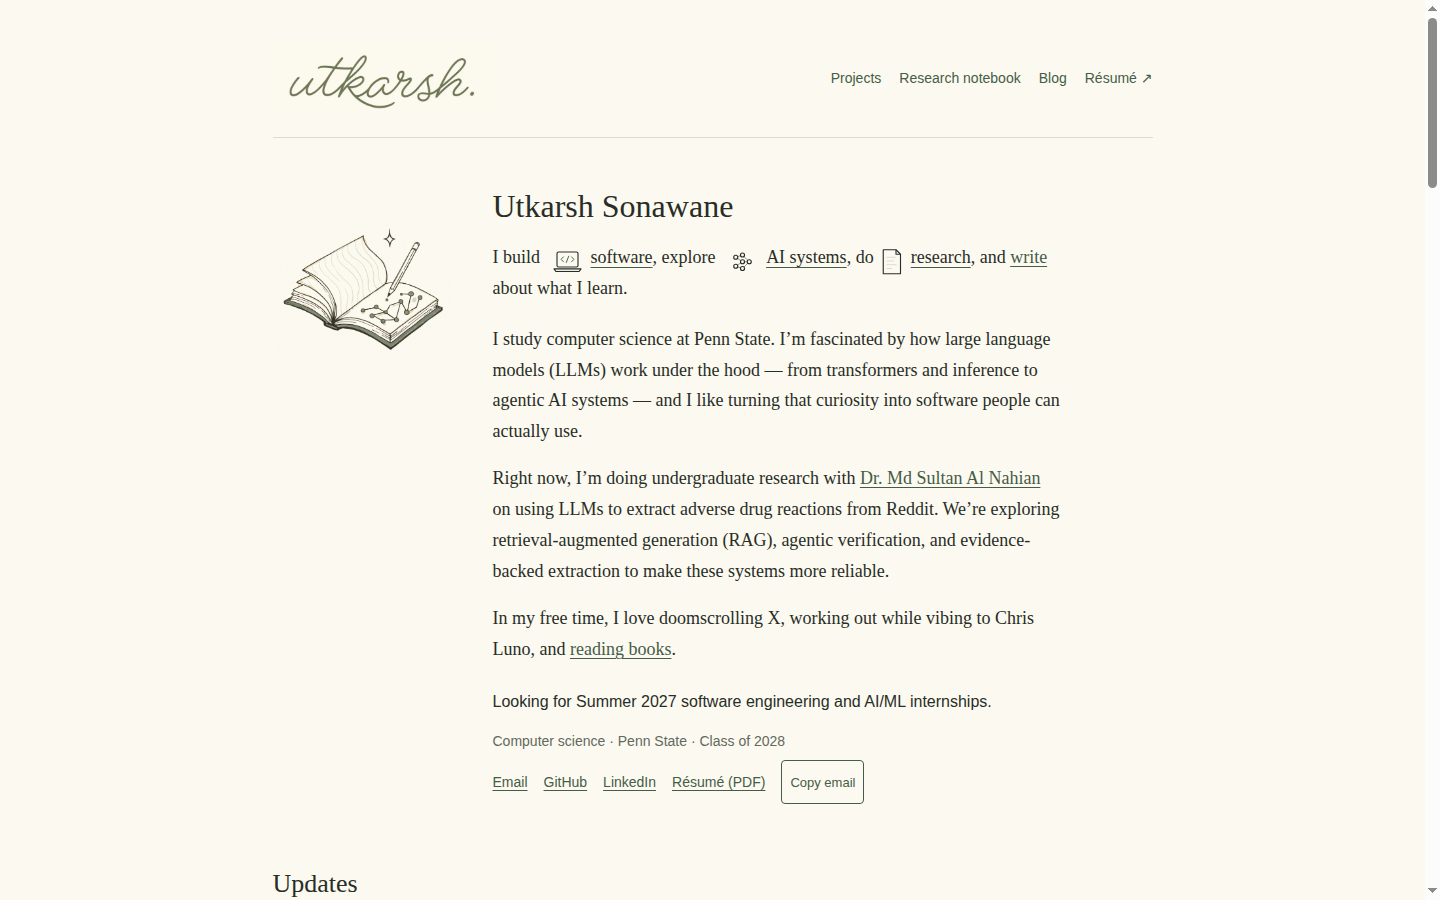
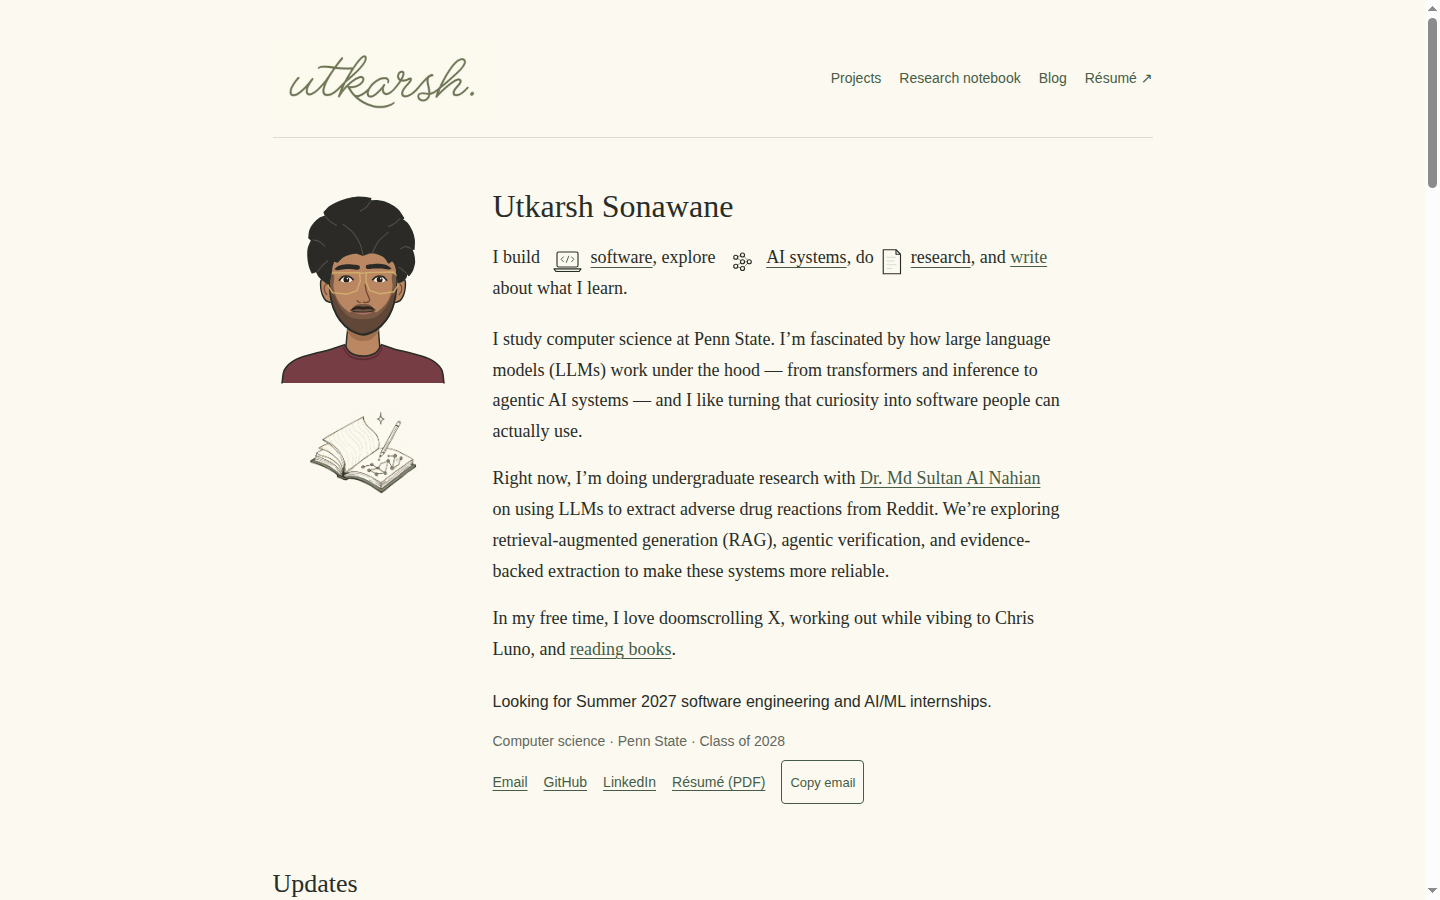
docs(portrait): CI screenshots of the portrait states and refreshed intro shots
portrait-*.png come from the portrait suite in CI (Chrome 156): rest,
noticing, looking right and left, no JavaScript, 1440 intro, 390 and 320
phones; firefox-portrait-hover.png from Firefox 159. The home-* and
firefox-home-* screenshots that show the introduction are refreshed from
the same run. PORTRAIT.md records the CI results.

Changed region(s): [[0.1875, 0.2178, 0.3125, 0.4356], [0.2188, 0.4667, 0.2812, 0.56]]

diff --git a/docs/portfolio-v3/PORTRAIT.md b/docs/portfolio-v3/PORTRAIT.md
@@ -15,6 +15,7 @@ video or extra request.
 | `tests/e2e/run.mjs` | New `portrait` suite |
 | `tests/e2e/firefox.mjs` | Portrait smoke checks |
 | `docs/portfolio-v3/portrait/` | This design record: `portrait.svg` (a copy of the drawing for viewing), the composition experiments and motion frames |
+| `docs/portfolio-v3/screenshots/` | CI renders: new `portrait-*.png` and `firefox-portrait-hover.png`; the `home-*` and `firefox-home-*` shots that show the introduction, refreshed |
 
 `styles.css`, `hero-icons.js`, `motion.js`, the project previews, all
 writing, `content/`, `.publishing/`, the publishing scripts and both
@@ -107,7 +108,9 @@ Final layout at the seven tested widths:
 
 These local renders use Gelasio and Arimo, which are metric-compatible with
 Georgia and Arial, so line breaks match most visitors' screens. The CI
-screenshots in `screenshots/portrait-*.png` use the runner's DejaVu fonts.
+screenshots in `screenshots/` (`portrait-*.png`, and the refreshed
+`home-*.png` and `firefox-home-*.png` that show the introduction) use the
+runner's fonts.
 
 ## Interaction
 
@@ -138,6 +141,14 @@ fails above 4°.
 The blink and the glint are short timed curves rather than springs, because
 each is a fixed gesture. Every part moves by an SVG `transform` attribute,
 and the glint also by `opacity`, so the page layout never changes.
+
+Static and animated states, rendered in CI by the `portrait` suite at 2×
+(rest, mid-blink with the glint on the left lens, looking toward a pointer
+on the right, looking left, and with JavaScript disabled):
+
+| Rest | Noticing | Looking right | Looking left | No JavaScript |
+| --- | --- | --- | --- | --- |
+| ![Rest](screenshots/portrait-rest.png) | ![Noticing](screenshots/portrait-hover-notice.png) | ![Looking right](screenshots/portrait-hover-looking.png) | ![Looking left](screenshots/portrait-hover-left.png) | ![No JavaScript](screenshots/portrait-no-js.png) |
 
 Motion frames at 1440 px (each frame is a fresh load, frozen at that time):
 
@@ -196,11 +207,29 @@ the interaction.
 pointer (tilt 2–4°, pupils turn), springs back to the rest drawing, no
 console errors.
 
+Results on the branch (November 4, 2026):
+
+| Check | Where | Result |
+| --- | --- | --- |
+| Chrome suites (`run.mjs`, with `REQUIRE_GLYPHS=1`) | CI, Google Chrome 156 | 292/292 |
+| Chrome suites (`run.mjs`) | Sandbox, Chrome headless shell and Chrome for Testing 151 | 288/288 (no glyph checks there) |
+| Firefox smoke (`firefox.mjs`) | CI, Firefox 159 | 43/43 |
+| html-validate, writing lists, links (537 references), RSS, preservation | CI `check` job; all but html-validate also in the sandbox | Pass |
+| Content pipeline and Sunday publisher tests, including the real-draft rehearsal with html-validate | CI | 83 passed |
+| `publish_scheduled.py --dry-run` | Sandbox | 0 due, nothing changed |
+
+The first CI run found one real problem: Chrome 156 delivered the emulated
+tap as a `click` with `pointerType: "touch"` and no `pointerdown` before it,
+so the tap greeting did not run. The click handler now reads the click's own
+pointer type.
+
 ## Limitations
 
 - Tested in Chrome locally and in CI, and in Firefox in CI only (no Firefox
   in the build sandbox). Firefox checks use script-dispatched pointer
-  events. Safari/WebKit was not tested, as for the rest of V3.
+  events. Safari/WebKit was not tested, as for the rest of V3. The tap
+  greeting relies on clicks carrying `pointerType` (current Chrome, Firefox
+  and Safari) or on the `pointerdown` before them.
 - Touch behavior was tested with Chrome's touch emulation, not on a phone.
 - The character reacts only while the pointer is over the drawing. Keyboard
   and screen-reader users get the still portrait and its name, by design.
